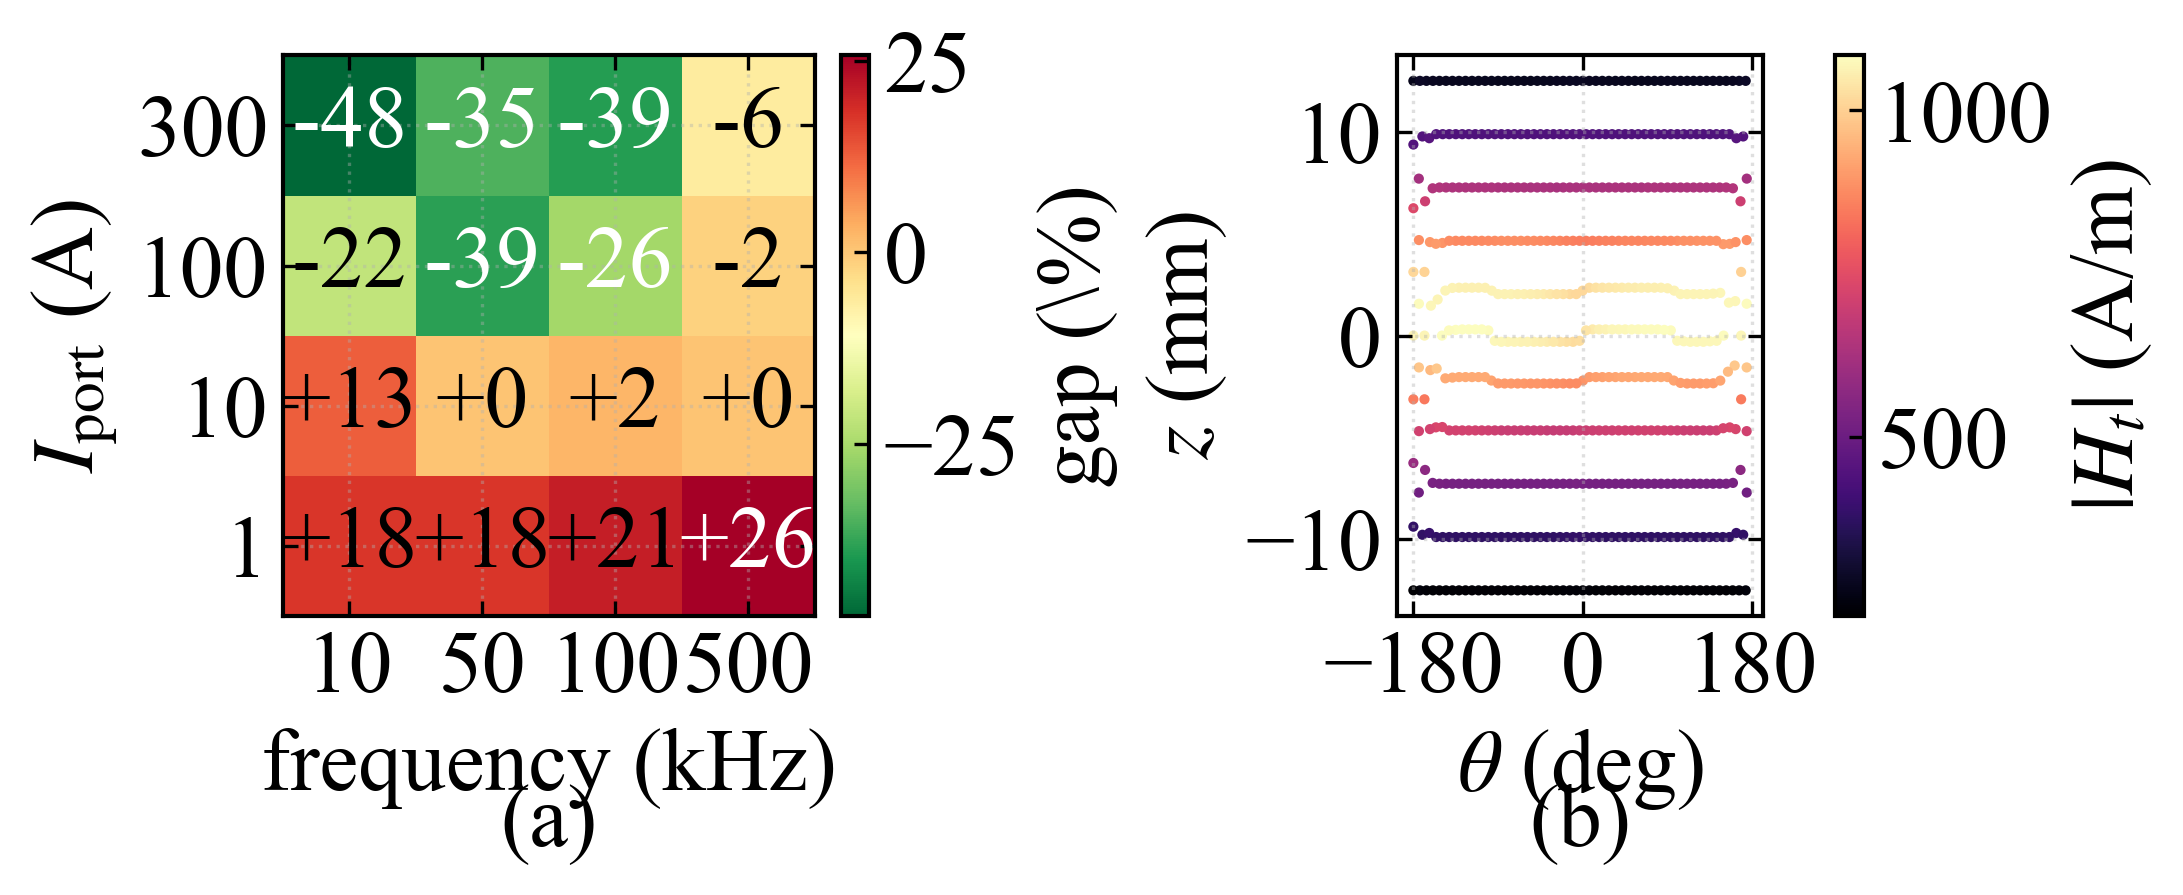
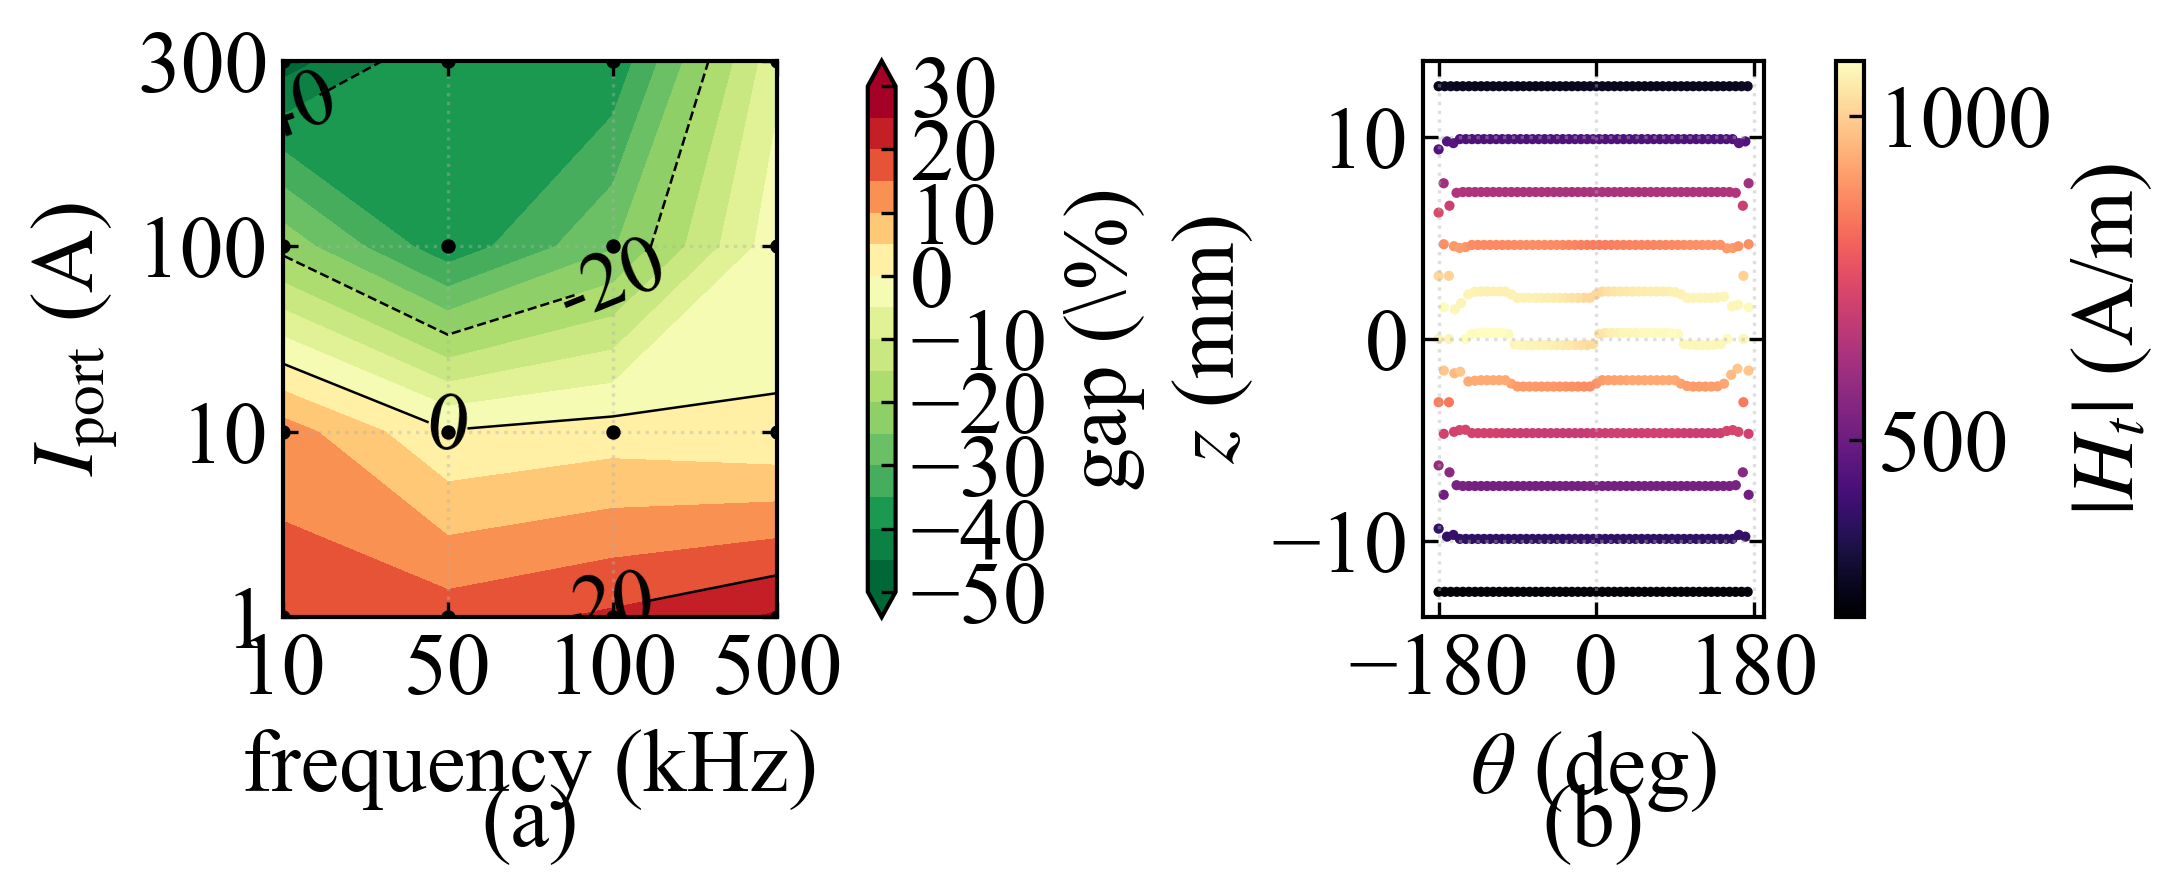
ih_esim_benchmark: digest panel (a) heatmap -> contourf gap map
Convert the digest figure's gap panel from imshow to filled contours
(contourf) on evenly-spaced index axes, with labelled contour lines
(-40/-20/0/+20) and the 16 sampled (I,f) points overlaid as dots so
the 4x4 sampling stays honest.  TwoSlopeNorm(vcenter=0) keeps the
green/red diverging scale centred at zero gap.  clabel font bumped to
tick_pt-1 so every glyph clears 9 pt after the 0.46 in-column downscale.

diff --git a/examples/ih_esim_benchmark/plot_digest_figure.py b/examples/ih_esim_benchmark/plot_digest_figure.py
@@ -1,5 +1,5 @@
-"""Digest 2-panel figure: (a) per-element-vs-uniform P_wp gap heatmap
-(narrower) + (b) |H_t| spatial map on the workpiece side wall.
+"""Digest 2-panel figure: (a) per-element-vs-uniform P_wp gap CONTOUR
+map (narrower) + (b) |H_t| spatial map on the workpiece side wall.
 
 Rendered wide (paper_double_column) and embedded IN-COLUMN at
 0.92\\columnwidth of the 1-page digest -- the same footprint as the
@@ -22,6 +22,7 @@ import numpy as np
 import matplotlib
 matplotlib.use("Agg")
 import matplotlib.pyplot as plt
+from matplotlib.colors import TwoSlopeNorm
 
 from mcp_server_document.graph.tools import (
     apply_lab_style, lab_savefig, check_min_font,
@@ -95,24 +96,32 @@ def main():
         gridspec_kw={"width_ratios": [1.45, 1.0]})
     tick_pt = plt.rcParams["ytick.labelsize"]
 
-    # ----- (a) gap heatmap (narrower) -----
-    im = ax1.imshow(gap, aspect="auto", origin="lower", cmap="RdYlGn_r",
-                    extent=[0.5, len(freqs)+0.5, 0.5, len(currents)+0.5])
-    ax1.set_xticks(range(1, len(freqs)+1))
+    # ----- (a) gap CONTOUR map on log-log (I, f) -----
+    # 16 sampled (I, f) points; contourf interpolates between them and the
+    # actual sampled values are overlaid so the 4x4 sampling stays honest.
+    # Evenly-spaced index axes (the sweep points are categorical / unevenly
+    # log-spaced -- 100 and 300 A nearly coincide in log), tick-labelled with
+    # the actual values; contourf interpolates uniformly between them.
+    xf = np.arange(1, len(freqs) + 1, dtype=float)
+    yi = np.arange(1, len(currents) + 1, dtype=float)
+    Xf, Yi = np.meshgrid(xf, yi)
+    norm = TwoSlopeNorm(vmin=min(gap.min(), -1.0), vcenter=0.0,
+                        vmax=max(gap.max(), 1.0))
+    cf = ax1.contourf(Xf, Yi, gap, levels=np.arange(-50, 31, 5),
+                      cmap="RdYlGn_r", norm=norm, extend="both")
+    ax1.set_xticks(xf)
     ax1.set_xticklabels([f"{f/1e3:.0f}" for f in freqs])
-    ax1.set_yticks(range(1, len(currents)+1))
+    ax1.set_yticks(yi)
     ax1.set_yticklabels([f"{I:.0f}" for I in currents])
     ax1.set_xlabel(r"frequency (kHz)")
     ax1.set_ylabel(r"$I_{\mathrm{port}}$ (A)")
-    cb1 = fig.colorbar(im, ax=ax1)
+    cl = ax1.contour(Xf, Yi, gap, levels=[-40, -20, 0, 20], colors="k",
+                     linewidths=0.6)
+    ax1.clabel(cl, fmt="%d", fontsize=tick_pt-1)  # >=9 pt after 0.46 downscale
+    ax1.scatter(Xf, Yi, c="k", s=6, zorder=5)   # the 16 sampled (I,f) points
+    cb1 = fig.colorbar(cf, ax=ax1)
     cb1.set_label(r"gap (\%)")
     cb1.ax.tick_params(labelsize=tick_pt)
-    for i in range(len(currents)):
-        for j in range(len(freqs)):
-            if not np.isnan(gap[i, j]):
-                ax1.text(j+1, i+1, f"{gap[i, j]:+.0f}", ha="center",
-                         va="center", fontsize=tick_pt,
-                         color="white" if abs(gap[i, j]) > 25 else "black")
     ax1.text(0.5, -0.30, "(a)", transform=ax1.transAxes, ha="center", va="top")
 
     # ----- (b) |H_t| spatial map on the cylinder side wall -----
